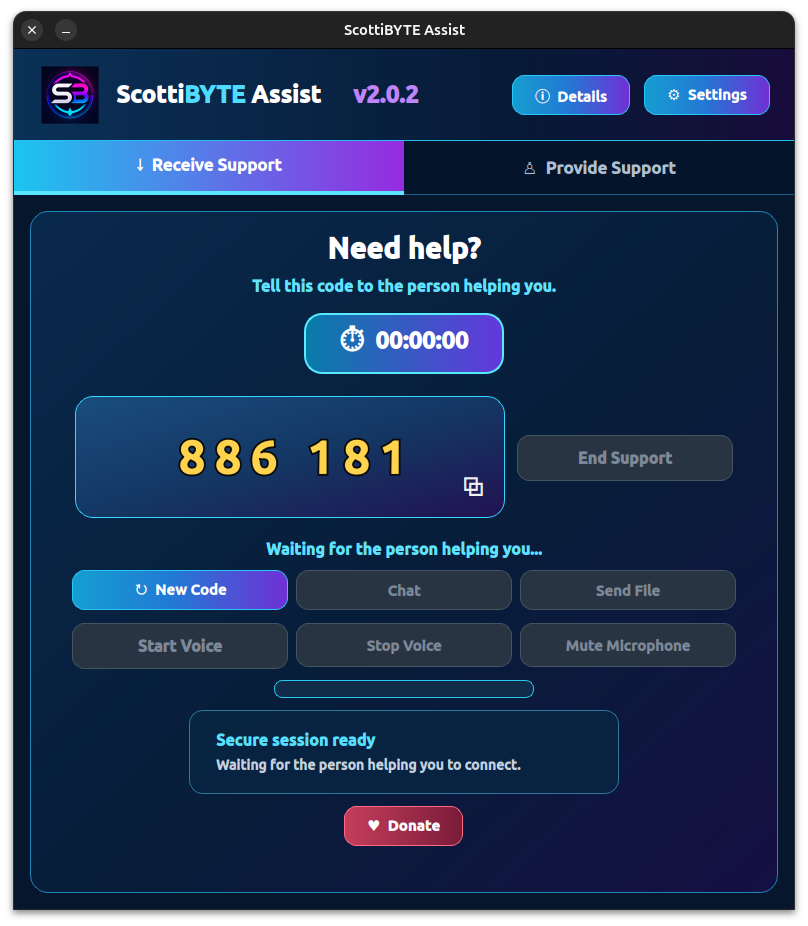
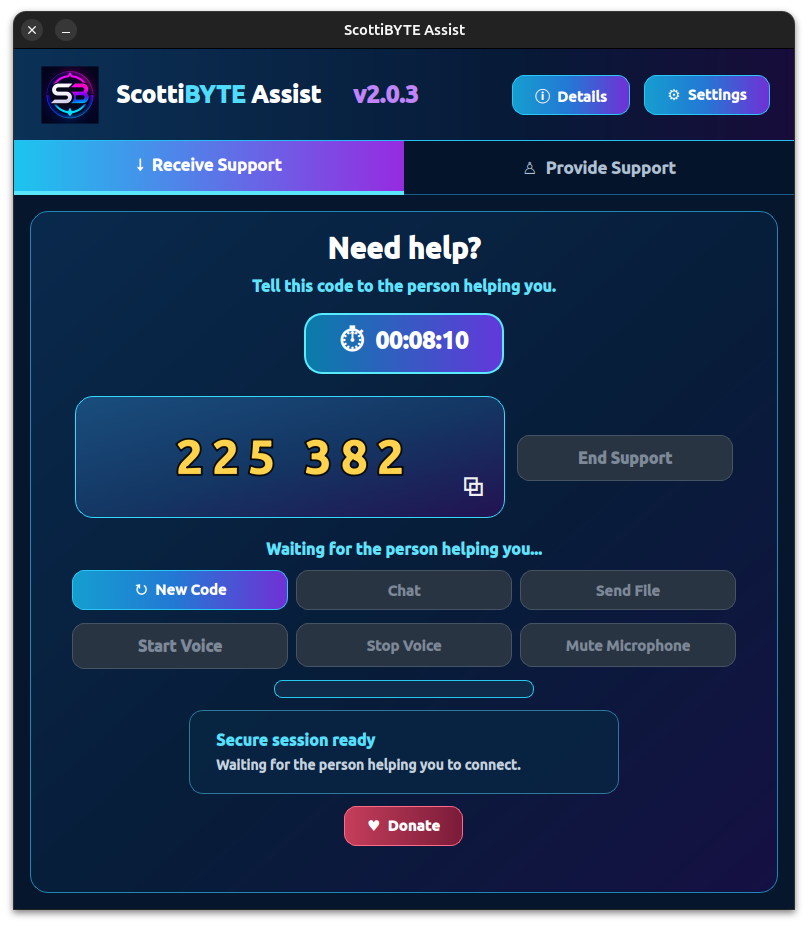
Refresh 2.0.3 documentation and screenshots

diff --git a/DOCKERHUB.md b/DOCKERHUB.md
@@ -4,7 +4,7 @@
 
 It is designed as an alternative to tools such as TeamViewer, Chrome Remote Desktop, AnyDesk, LogMeIn, RustDesk, and MeshCentral, while deliberately focusing on **attended remote assistance rather than persistent unattended remote access**.
 
-![Receive Support](https://raw.githubusercontent.com/ScottiBYTE/scottibyte-assist/v2.0.2/docs/images/receiver.png)
+![Receive Support](https://raw.githubusercontent.com/ScottiBYTE/scottibyte-assist/main/docs/images/receiver.png)
 
 ## What makes ScottiBYTE Assist different
 
@@ -28,7 +28,7 @@ It is designed as an alternative to tools such as TeamViewer, Chrome Remote Desk
 
 The ScottiBYTE Assist server includes a self-hosted client download and information portal.
 
-![ScottiBYTE Assist Portal](https://raw.githubusercontent.com/ScottiBYTE/scottibyte-assist/v2.0.2/docs/images/portal.png)
+![ScottiBYTE Assist Portal](https://raw.githubusercontent.com/ScottiBYTE/scottibyte-assist/main/docs/images/portal.png)
 
 ## First-Time Setup
 
@@ -36,11 +36,11 @@ A new ScottiBYTE Assist server generates a one-time nine-digit setup code.
 
 The first provider uses that code in ScottiBYTE Assist Settings to configure the server and become the initial superuser.
 
-![First-Time Provider Setup](https://raw.githubusercontent.com/ScottiBYTE/scottibyte-assist/v2.0.2/docs/images/bootstrap.png)
+![First-Time Provider Setup](https://raw.githubusercontent.com/ScottiBYTE/scottibyte-assist/main/docs/images/bootstrap.png)
 
 Additional providers can then be authorized and revoked individually through the administrator portal.
 
-![Provider Management](https://raw.githubusercontent.com/ScottiBYTE/scottibyte-assist/v2.0.2/docs/images/admin-provider-management.png)
+![Provider Management](https://raw.githubusercontent.com/ScottiBYTE/scottibyte-assist/main/docs/images/admin-provider-management.png)
 
 ## Architecture
 
@@ -113,14 +113,14 @@ https://assist.example.com/admin
 
 ## Documentation
 
-- Installation: https://github.com/ScottiBYTE/scottibyte-assist/blob/v2.0.2/docs/installation.md
-- Architecture: https://github.com/ScottiBYTE/scottibyte-assist/blob/v2.0.2/docs/architecture.md
-- Session Protocol: https://github.com/ScottiBYTE/scottibyte-assist/blob/v2.0.2/docs/session-protocol.md
+- Installation: https://github.com/ScottiBYTE/scottibyte-assist/blob/v2.0.3/docs/installation.md
+- Architecture: https://github.com/ScottiBYTE/scottibyte-assist/blob/v2.0.3/docs/architecture.md
+- Session Protocol: https://github.com/ScottiBYTE/scottibyte-assist/blob/v2.0.3/docs/session-protocol.md
 - Source: https://github.com/ScottiBYTE/scottibyte-assist
 
 ## Current Releases
 
-The Docker image contains the ScottiBYTE Assist public portal, the Windows 2.0.2 client installer, and the Linux 2.0.2 client installer.
+The Docker image contains the ScottiBYTE Assist public portal, the Windows 2.0.3 client installer, and the Linux 2.0.3 client installer.
 
 Server version and client release versions are independent.
 
